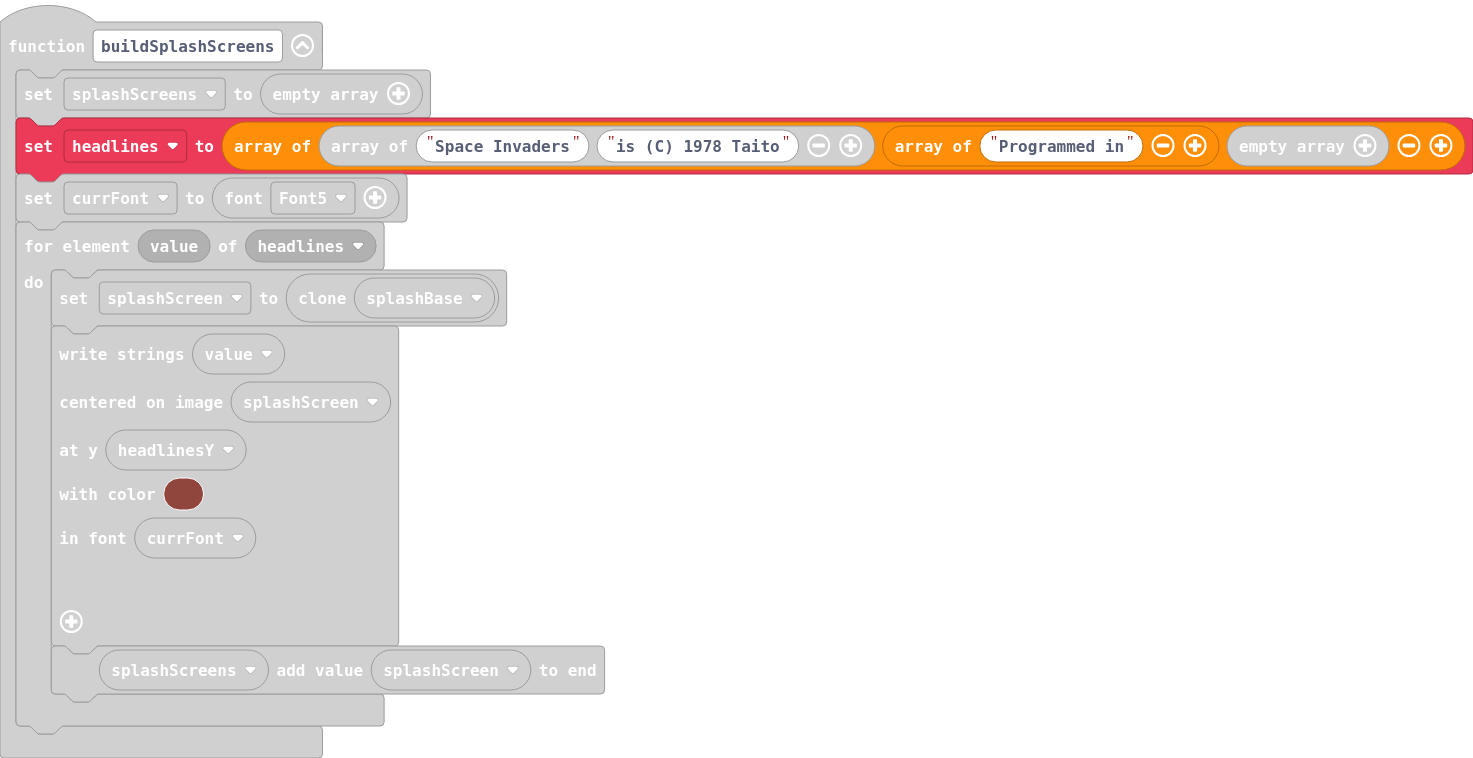
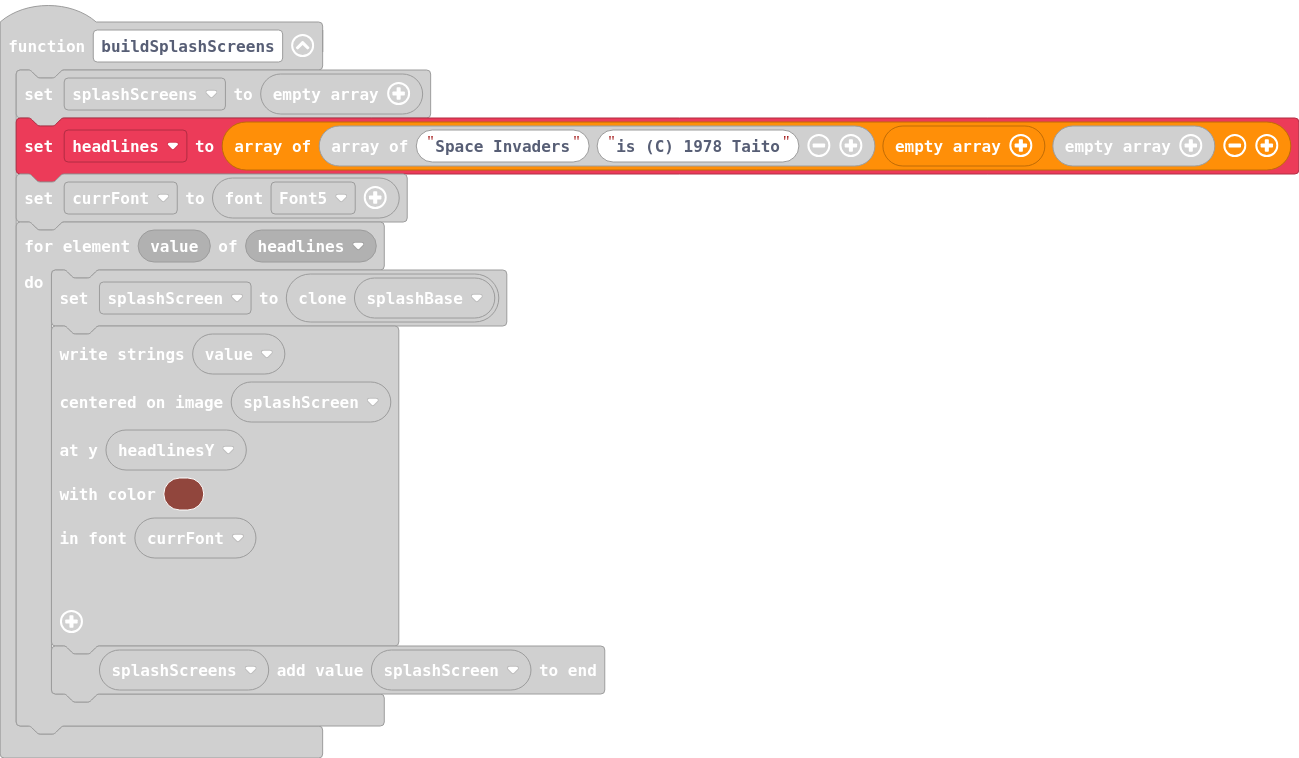
Update main.blocks, main.ts

Changed region(s): [[0.0, 0.0303, 1.0, 1.0], [0.0, 0.3641, 0.2156, 0.4855], [0.0308, 0.0, 0.0616, 0.0303]]

diff --git a/main.ts b/main.ts
@@ -544,7 +544,7 @@ function initAliens () {
 }
 function buildSplashScreens () {
     splashScreens = []
-    headlines = [["Space Invaders", "is (C) 1978 Taito"], ["Programmed in"], []]
+    headlines = [["Space Invaders", "is (C) 1978 Taito"], [], []]
     currFont = drawStrings.createFontInfo(FontName.Font5)
     for (let value of headlines) {
         splashScreen = splashBase.clone()
